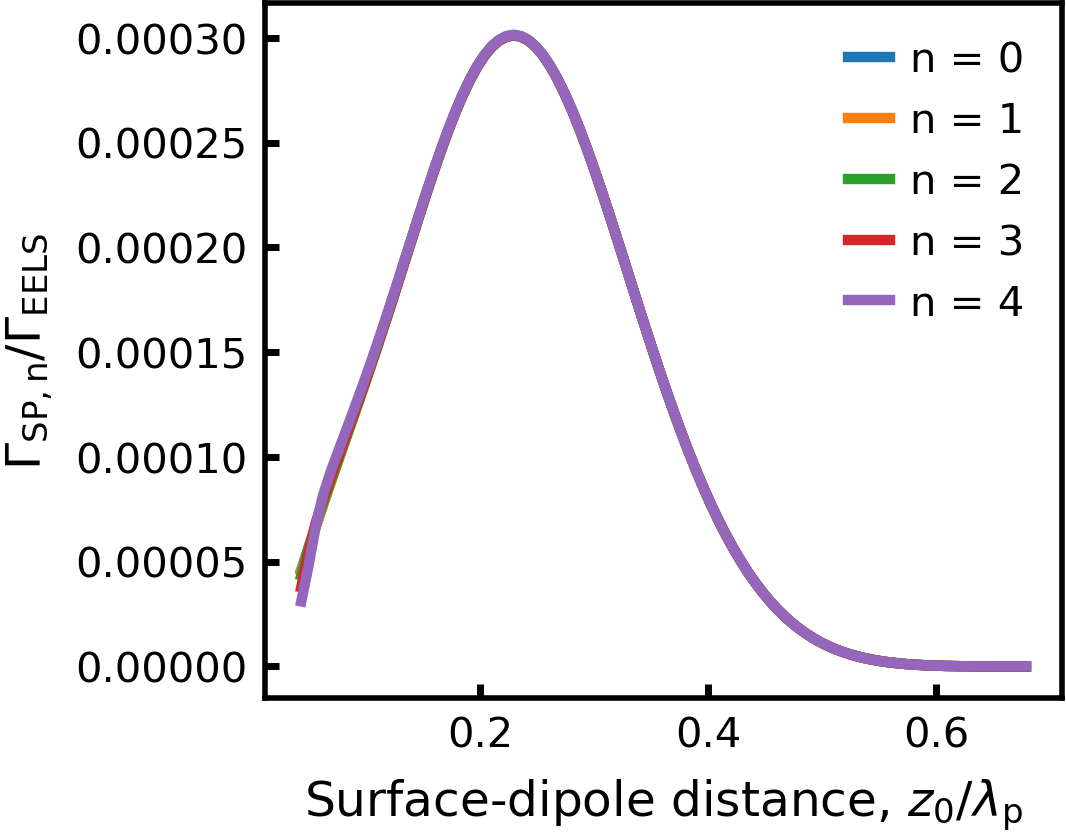
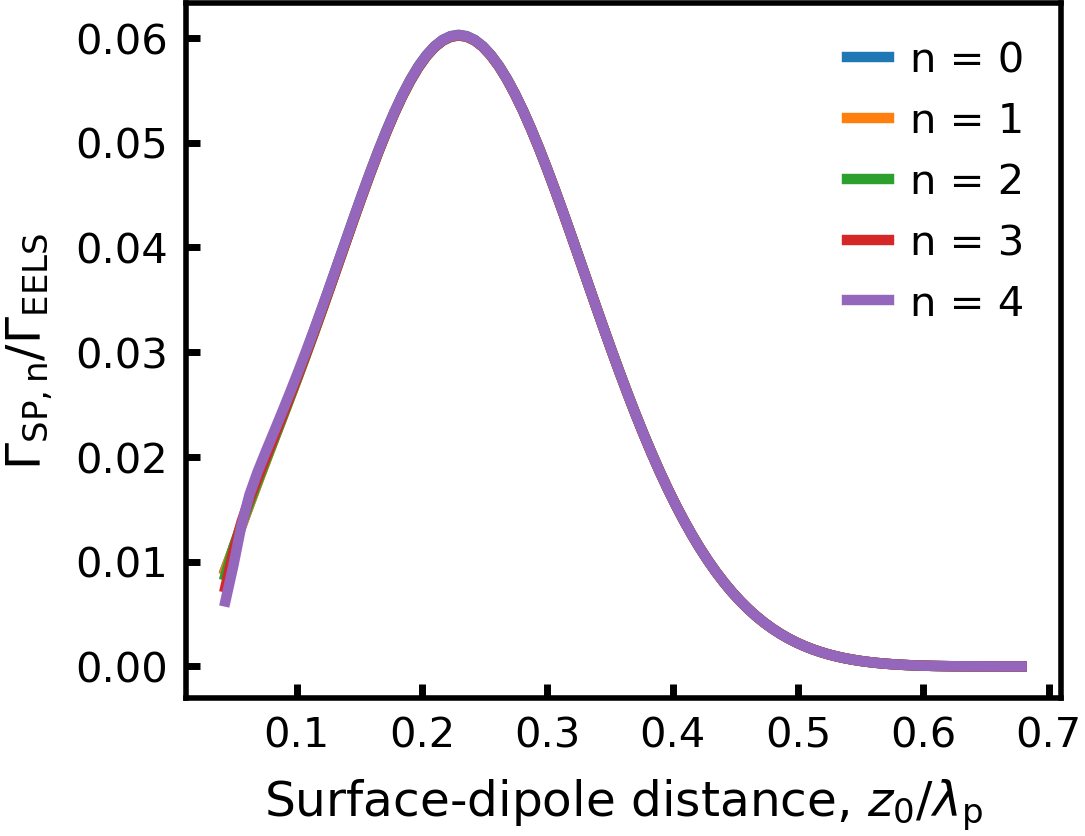
update from icfo dell

diff --git a/hBn-disks-v2/infinite_dipoles/decay_rate_theta_n.py b/hBn-disks-v2/infinite_dipoles/decay_rate_theta_n.py
@@ -15,7 +15,7 @@ from scipy import special
 name_this_py = os.path.basename(__file__)
 path = os.path.abspath(__file__) #path absoluto del .py actual
 path_basic = path.replace('/' + name_this_py,'')
-path_constants =  path_basic.replace('/potential_field/infinite_dipoles','')
+path_constants =  path_basic.replace('/infinite_dipoles','')
 #print('Importar modulos necesarios para este codigo')
 
 try:
@@ -113,7 +113,7 @@ def decay_rate_theta_inf_dipoles_ana_div_gamma0(omegac,epsi_silica,d_nano_film,d
        
     Gamma_SPn = a*epsi_silica(E)*np.abs(phi_n)**2/(np.pi*np.abs(Rp)*seno_theta_n*4*np.pi**2*v**2)
     
-    return Gamma_SPn*5*1e9/Gamma_EELS
+    return Gamma_SPn*1e9*1e3/Gamma_EELS
 
 
 

diff --git a/hBn-disks-v2/infinite_dipoles/plot_decay_rate_theta_n_opt_zp_fix_zp.py b/hBn-disks-v2/infinite_dipoles/plot_decay_rate_theta_n_opt_zp_fix_zp.py
@@ -21,7 +21,7 @@ from scipy.interpolate import interp1d
 name_this_py = os.path.basename(__file__)
 path = os.path.abspath(__file__) #path absoluto del .py actual
 path_basic = path.replace('/' + name_this_py,'')
-path_constants =  path_basic.replace('/potential_field/infinite_dipoles','')
+path_constants =  path_basic.replace('/infinite_dipoles','')
 path_save = path_basic + '/' + 'decay_rate_theta_n'
 if not os.path.exists(path_save):
     print('Creating folder to save graphs')

diff --git a/hBn-disks-v2/infinite_dipoles/plot_potential.py b/hBn-disks-v2/infinite_dipoles/plot_potential.py
@@ -25,7 +25,7 @@ plot_vs_zp_lambda_p = 1
 name_this_py = os.path.basename(__file__)
 path = os.path.abspath(__file__) #path absoluto del .py actual
 path_basic = path.replace('/' + name_this_py,'')
-path_constants =  path_basic.replace('/potential_field/infinite_dipoles','')
+path_constants =  path_basic.replace('/infinite_dipoles','')
 path_save = path_basic + '/' + 'potential'
 if not os.path.exists(path_save):
     print('Creating folder to save graphs')

diff --git a/hBn-disks-v2/infinite_dipoles/potential_n.py b/hBn-disks-v2/infinite_dipoles/potential_n.py
@@ -15,7 +15,7 @@ from scipy import special
 name_this_py = os.path.basename(__file__)
 path = os.path.abspath(__file__) #path absoluto del .py actual
 path_basic = path.replace('/' + name_this_py,'')
-path_constants =  path_basic.replace('/potential_field/infinite_dipoles','')
+path_constants =  path_basic.replace('/infinite_dipoles','')
 #print('Importar modulos necesarios para este codigo')
 
 try:
